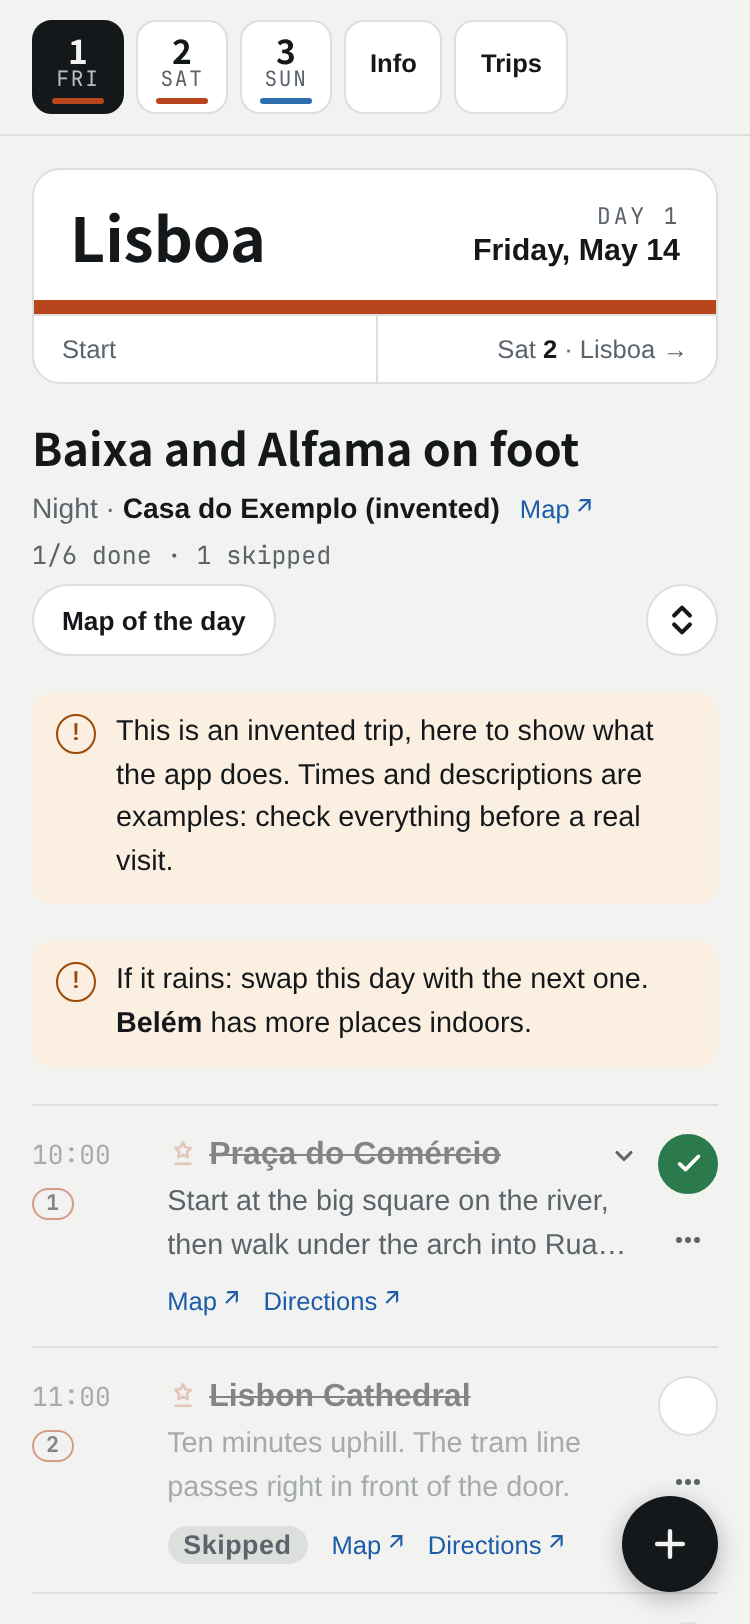
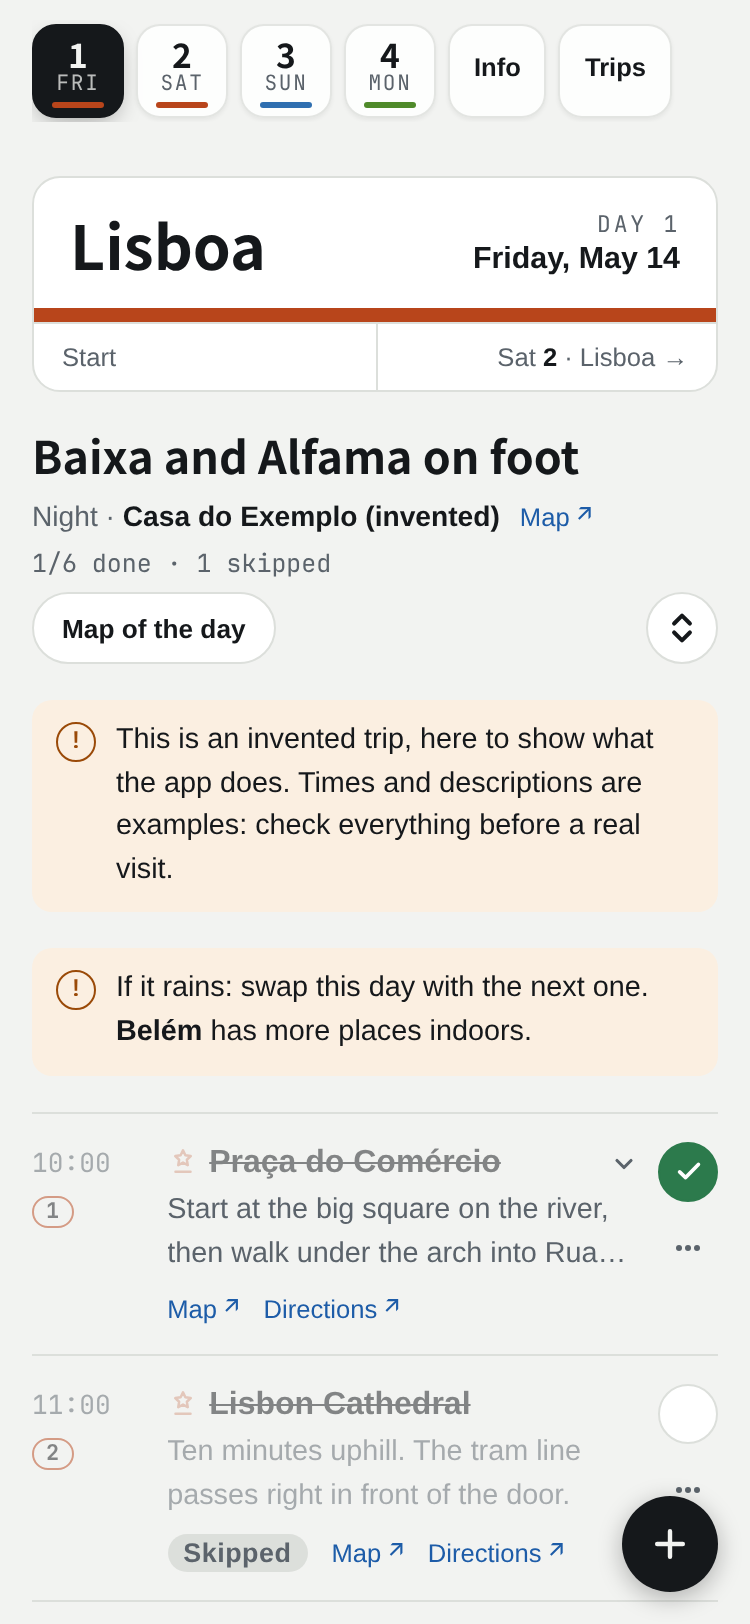
3.1.1: no scroll bars, a switch for the lines, frosted bar, richer example
- No scroll bars anywhere (3.1.0 hid them on touch-only devices only).
- "Lines" next to Map and Sketch hides the lines between the stops and the
  travel icons on them; the choice is kept.
- The bar of days is frosted glass, with an edge once the page scrolls; the
  list of days fades on the side with more to scroll; day buttons polished.
- The example trip adds a day in Porto (train, a new city, every kind of
  place, metro, a flight home, a stay that is only text, a shared pin, a
  separate map for the airport), the bus to Pena, a Google Maps link and a
  number to call.
- Older Safari: solid colours before color-mix(), and a fallback for
  AbortSignal.timeout. Modules checked under JavaScriptCore.

diff --git a/css/app.css b/css/app.css
@@ -33,6 +33,12 @@
 html{scroll-padding-top:env(safe-area-inset-top,0px)}
 body{margin:0;padding:env(safe-area-inset-top,0px) 0 env(safe-area-inset-bottom,0px);background:var(--bg);color:var(--ink);font:400 15px/1.5 var(--f-body);-webkit-text-size-adjust:100%}
 body::before{content:"";position:fixed;inset:0 0 auto;height:env(safe-area-inset-top,0px);z-index:10;background:var(--bg)}
+/* Frosted glass, for the bars that stay on top while the page scrolls under them.
+   Without backdrop-filter, or without color-mix (Safari before 16.2), they keep a solid
+   background. Safari needs the -webkit- prefix before 18. */
+@supports ((backdrop-filter:blur(1px)) or (-webkit-backdrop-filter:blur(1px))){
+  body::before,.strip{background:color-mix(in srgb,var(--bg) 70%,transparent);-webkit-backdrop-filter:saturate(170%) blur(16px);backdrop-filter:saturate(170%) blur(16px)}
+}
 img{max-width:100%}
 [hidden]{display:none!important}
 a{color:var(--link)}
@@ -41,22 +47,26 @@ button{font:inherit}
 .gutter{max-width:640px;margin:0 auto;padding-left:max(16px,env(safe-area-inset-left,0px));padding-right:max(16px,env(safe-area-inset-right,0px))}
 
 /* day strip */
-.strip{position:sticky;top:env(safe-area-inset-top,0px);z-index:5;background:var(--bg);border-bottom:1px solid var(--line)}
+.strip{position:sticky;top:env(safe-area-inset-top,0px);z-index:5;background:var(--bg);border-bottom:1px solid transparent;transition:border-color .2s,box-shadow .2s}
+/* once the page has scrolled, the bar gets an edge and a soft shadow (js: markStrip) */
+.strip.scrolled{border-bottom-color:var(--line);border-bottom-color:color-mix(in srgb,var(--line) 70%,transparent);box-shadow:0 6px 18px -10px rgba(0,0,0,.35)}
 .strip .gutter{padding-block:10px}
-#days{display:flex;gap:6px;overflow-x:auto;scrollbar-width:none;scroll-behavior:smooth}
+#days{display:flex;gap:6px;overflow-x:auto;scrollbar-width:none;scroll-behavior:smooth;padding-block:2px}
+/* the list of days fades out on a side when there is more to scroll that way */
+#days.more-l{-webkit-mask-image:linear-gradient(to right,transparent,#000 28px);mask-image:linear-gradient(to right,transparent,#000 28px)}
+#days.more-r{-webkit-mask-image:linear-gradient(to left,transparent,#000 28px);mask-image:linear-gradient(to left,transparent,#000 28px)}
+#days.more-l.more-r{-webkit-mask-image:linear-gradient(to right,transparent,#000 28px,#000 calc(100% - 28px),transparent);mask-image:linear-gradient(to right,transparent,#000 28px,#000 calc(100% - 28px),transparent)}
 #days::-webkit-scrollbar{display:none}
-/* On phones and tablets no scroll bar is drawn: a finger scrolls without it, and an
-   always visible bar (inside the forms, beside the page) was a distraction. A mouse
-   keeps its bars. */
-@media (hover:none) and (pointer:coarse){
-  *{scrollbar-width:none}
-  ::-webkit-scrollbar{display:none}
-}
-.dchip{flex:0 0 auto;min-width:46px;padding:5px 8px 9px;border:1px solid var(--line);background:var(--surface);border-radius:10px;text-align:center;text-decoration:none;color:var(--ink);display:grid;gap:0;position:relative}
+/* No scroll bars anywhere (page, forms, fields): pages scroll with a finger, a wheel or
+   the keyboard all the same, and an always visible bar was only in the way. */
+html,*{scrollbar-width:none}
+::-webkit-scrollbar{display:none;width:0;height:0}
+.dchip{flex:0 0 auto;min-width:46px;padding:5px 8px 9px;border:1px solid var(--line);border-color:color-mix(in srgb,var(--line) 80%,transparent);background:var(--surface);background:color-mix(in srgb,var(--surface) 85%,transparent);border-radius:12px;text-align:center;text-decoration:none;color:var(--ink);display:grid;gap:0;position:relative;box-shadow:0 1px 2px rgba(0,0,0,.06);transition:background-color .15s,border-color .15s,transform .1s;-webkit-tap-highlight-color:transparent}
+.dchip:active{transform:scale(.96)}
 .dchip::after{content:"";position:absolute;left:9px;right:9px;bottom:4px;height:3px;border-radius:2px;background:var(--c,var(--muted))}
 .dchip .n{font:700 1.05rem/1.1 var(--f-display);font-variant-numeric:tabular-nums}
 .dchip .w{font:500 .66rem/1.2 var(--f-mono);text-transform:uppercase;letter-spacing:.08em;color:var(--muted)}
-.dchip[aria-current="page"]{background:var(--ink);border-color:var(--ink);color:var(--bg)}
+.dchip[aria-current="page"]{background:var(--ink);border-color:var(--ink);color:var(--bg);box-shadow:0 4px 12px -4px rgba(0,0,0,.4)}
 .dchip[aria-current="page"] .w{color:var(--bg);opacity:.75}
 .dchip.today .n::after{content:"";display:inline-block;width:6px;height:6px;border-radius:50%;background:var(--accent);margin-left:3px;vertical-align:super}
 .dchip.info{align-content:center;font:600 .8rem var(--f-body);padding-inline:12px}
@@ -138,7 +148,7 @@ ol.stops{list-style:none;margin:0;padding:0}
 .iconbtn svg{width:18px;height:18px}
 .iconbtn[aria-pressed="true"]{background:var(--ink);color:var(--bg);border-color:var(--ink)}
 /* how a stop is travelled: metro, train, plane, boat */
-.tvchip{flex:0 0 auto;display:inline-grid;place-items:center;width:26px;height:26px;border-radius:7px;background:color-mix(in srgb,var(--c,var(--muted)) 16%,var(--surface));color:var(--c,var(--ink))}
+.tvchip{flex:0 0 auto;display:inline-grid;place-items:center;width:26px;height:26px;border-radius:7px;background:var(--bg);background:color-mix(in srgb,var(--c,var(--muted)) 16%,var(--surface));color:var(--c,var(--ink))}
 .tvchip svg{display:block}
 /* the kind of place, before the stop's title */
 .tychip{display:inline-block;vertical-align:-2px;margin-right:6px;color:var(--c,var(--ink))}
@@ -205,6 +215,10 @@ ol.stops{list-style:none;margin:0;padding:0}
 .livewrap{display:grid;gap:8px;min-width:0}
 .zchips{display:flex;flex-wrap:wrap;gap:6px}
 .zchip{border:1px solid var(--line);background:var(--bg);color:var(--ink);font:600 .76rem var(--f-body);padding:5px 12px;border-radius:999px;cursor:pointer;min-height:32px}
+/* the map's view picker and the switch for the lines between the stops */
+.maptools{display:flex;flex-wrap:wrap;align-items:center;gap:8px;justify-content:space-between}
+.chipbtn{font:600 .84rem var(--f-body);padding:8px 14px;border-radius:999px;border:1px solid var(--line);background:var(--surface);color:var(--muted);cursor:pointer;min-height:36px}
+.chipbtn[aria-pressed="true"]{background:var(--ink);color:var(--bg);border-color:var(--ink)}
 .live{height:min(62vh,380px);border-radius:10px;overflow:hidden;background:var(--bg);position:relative;isolation:isolate}
 .live .canvas{position:absolute;inset:0}
 .live .msg{position:absolute;inset:0;display:grid;place-items:center;text-align:center;padding:16px;color:var(--muted);font-size:.88rem}

diff --git a/js/app.js b/js/app.js
@@ -28,7 +28,7 @@ const S = {
   records: [],            // [{id, trip, importedAt, fileName}]
   rec: null,              // the open one
   state: {done: {}, skipped: {}, plans: {}},
-  ui: {mapOpen: false, mapView: "live", expandAll: false},
+  ui: {mapOpen: false, mapView: "live", expandAll: false, route: true},
   langPref: "auto",       // "auto" follows the trip, or a language chosen on this device
   theme: document.documentElement.dataset.theme || "auto",   // set early by js/theme.js
   openStops: new Map(),   // descriptions opened or closed one by one, until the page is closed
@@ -407,7 +407,22 @@ function renderStrip(r){
     `<a class="dchip info" href="#trips"${r.name === "trips" ? ' aria-current="page"' : ""}>${esc(t("trips"))}</a>`;
   const active = $days.querySelector('[aria-current="page"]');
   if(active) $days.scrollLeft = active.offsetLeft - ($days.clientWidth - active.offsetWidth) / 2;
+  markStrip();
 }
+
+// The bar of days: an edge once the page has scrolled under it, and a fade on each side
+// of the list of days where there is more to scroll (css/app.css, .strip).
+function markStrip(){
+  $strip.classList.toggle("scrolled", window.scrollY > 4);
+  const max = $days.scrollWidth - $days.clientWidth;
+  $days.classList.toggle("more-l", $days.scrollLeft > 2);
+  $days.classList.toggle("more-r", $days.scrollLeft < max - 2);
+}
+let stripFrame = 0;
+const onScroll = () => { if(!stripFrame) stripFrame = requestAnimationFrame(() => { stripFrame = 0; markStrip(); }); };
+window.addEventListener("scroll", onScroll, {passive: true});
+window.addEventListener("resize", onScroll, {passive: true});
+$days.addEventListener("scroll", onScroll, {passive: true});
 
 function errorBox(){
   const e = S.importError;
@@ -662,7 +677,8 @@ function mapPanel(zs, color, view, gone){
   const views = [["live", t("viewLive")], ["schema", t("viewSchema")]];
 
   let o = `<section class="mapbox" style="--c:${color}" aria-label="${esc(t("dayMap"))}">`;
-  o += `<div class="seg" role="group" aria-label="${esc(t("mapType"))}">${views.map(([id, name]) => `<button type="button" data-view="${id}" aria-pressed="${id === view}">${esc(name)}</button>`).join("")}</div>`;
+  o += `<div class="maptools"><div class="seg" role="group" aria-label="${esc(t("mapType"))}">${views.map(([id, name]) => `<button type="button" data-view="${id}" aria-pressed="${id === view}">${esc(name)}</button>`).join("")}</div>` +
+    `<button type="button" class="chipbtn" data-route aria-pressed="${S.ui.route}">${esc(t("routeLines"))}</button></div>`;
   if(!S.online && S.ui.mapView === "live") o += `<p class="off">${esc(t("offlineMap"))}</p>`;
 
   if(view === "live"){
@@ -683,7 +699,7 @@ function mapPanel(zs, color, view, gone){
       return;
     }
     const head = `<div class="zhead"><span class="zname">${esc(zoneTitle(z))}</span>${zoneLink(z)}</div>`;
-    o += `<div class="zone">${head}${zoneSVG(z, zoneTitle(z), gone)}<ol class="mlegend">${z.pts.map(p => `<li><span class="mb">${p.nums.join("·")}</span><a href="${esc(mapsUrl(p.q))}" target="_blank" rel="noopener">${esc(p.name)}</a></li>`).join("")}</ol></div>`;
+    o += `<div class="zone">${head}${zoneSVG(z, zoneTitle(z), gone, S.ui.route)}<ol class="mlegend">${z.pts.map(p => `<li><span class="mb">${p.nums.join("·")}</span><a href="${esc(mapsUrl(p.q))}" target="_blank" rel="noopener">${esc(p.name)}</a></li>`).join("")}</ol></div>`;
   });
   return o + `<p class="foot">${esc(t("footSketch") + " " + t("footNumbers"))}</p></section>`;
 }
@@ -792,7 +808,7 @@ function renderDay(i){
     const dark = isDark();
     // Skipping a stop changes the route: the map is drawn again.
     const skippedNow = list.map((s, k) => isSkipped(k) ? k : -1).filter(k => k >= 0).join(",");
-    if(view === "live") wanted = {key: [S.rec.id, S.rec.importedAt, i, pid || "", googleKey(), lang, dark, skippedNow].join("|"), zones: zs, color: cityColor(d.city), dark, gone};
+    if(view === "live") wanted = {key: [S.rec.id, S.rec.importedAt, i, pid || "", googleKey(), lang, dark, skippedNow, S.ui.route].join("|"), zones: zs, color: cityColor(d.city), dark, gone};
   }
   if(d.notes) html += d.notes.map(r => `<div class="remind"><span class="ic" aria-hidden="true">!</span><div>${rich(r)}</div></div>`).join("");
   if(d.plans){
@@ -814,7 +830,7 @@ function syncLive(wanted){
   if(applyMapSettings()) return;
   if(!live || live.key !== wanted.key){
     if(live) live.handle.destroy();
-    live = {key: wanted.key, handle: createLiveMap({zones: wanted.zones, color: wanted.color, googleKey: googleKey(), dark: wanted.dark, onNotice: k => toast(t(k))})};
+    live = {key: wanted.key, handle: createLiveMap({zones: wanted.zones, color: wanted.color, googleKey: googleKey(), dark: wanted.dark, route: S.ui.route, onNotice: k => toast(t(k))})};
   }
   slot.appendChild(live.handle.el);
   live.handle.refresh();
@@ -937,6 +953,14 @@ $app.addEventListener("click", e => {
     saveUi();
     render();
     refocus("[data-map]");
+    return;
+  }
+  // The lines between the stops on both maps: shown or hidden, remembered.
+  if(e.target.closest("[data-route]")){
+    S.ui.route = !S.ui.route;
+    saveUi();
+    render();
+    refocus("[data-route]");
     return;
   }
   const view = e.target.closest("[data-view]");
@@ -1130,7 +1154,7 @@ async function start(){
     await store.putTrip(rec);
     await versions.put(ready);
   }
-  if(ui && typeof ui === "object") S.ui = {mapOpen: !!ui.mapOpen, mapView: ui.mapView === "schema" ? "schema" : "live", expandAll: !!ui.expandAll};
+  if(ui && typeof ui === "object") S.ui = {mapOpen: !!ui.mapOpen, mapView: ui.mapView === "schema" ? "schema" : "live", expandAll: !!ui.expandAll, route: ui.route !== false};
   if(typeof key === "string") S.deviceKey = key;
   syncThemeColor();
   await openRecord(S.records.find(r => r.id === activeId) || S.records[S.records.length - 1] || null);

diff --git a/js/livemap.js b/js/livemap.js
@@ -72,7 +72,7 @@ function pinNode(pt, color){
 }
 
 // In the dark theme the tiles are darkened by CSS (.live.dark), see css/app.css.
-async function drawLeaflet(canvas, zones, color){
+async function drawLeaflet(canvas, zones, color, route){
   const L = await loadLeaflet();
   const map = L.map(canvas, {zoomControl: true});
   map.attributionControl.setPrefix('<a href="https://leafletjs.com" target="_blank" rel="noopener">Leaflet</a>');
@@ -83,7 +83,7 @@ async function drawLeaflet(canvas, zones, color){
   const legs = [], pins = [], marks = [];
   // A jump between zones (Hakone → Kyoto) is thinner: it is not a walk.
   const style = (leg, isGone) => ({weight: leg.bridge ? 3 : 4, opacity: isGone || leg.bridge ? 0.55 : 0.75, dashArray: isGone ? "5 10" : null});
-  routeOf(zones).forEach(leg => {
+  (route ? routeOf(zones) : []).forEach(leg => {
     legs.push({...leg, line: L.polyline([leg.from.ll, leg.to.ll], {color, interactive: false, ...style(leg, false)}).addTo(map)});
     if(leg.travel){
       const el = travelNode(leg, color);
@@ -114,7 +114,7 @@ async function drawLeaflet(canvas, zones, color){
   return {fit, mark, refresh: () => map.invalidateSize(), destroy: () => map.remove()};
 }
 
-async function drawGoogle(canvas, zones, color, key, dark){
+async function drawGoogle(canvas, zones, color, key, dark, route){
   const gm = await loadGoogle(key);
   const {Map, Polyline, InfoWindow, OverlayView} = await gm.importLibrary("maps");
   const {LatLng, LatLngBounds, ColorScheme} = await gm.importLibrary("core");
@@ -151,7 +151,7 @@ async function drawGoogle(canvas, zones, color, key, dark){
   // Google has no dashed lines: a dashed leg is an invisible line that repeats a short stroke.
   const solid = leg => ({strokeOpacity: leg.bridge ? 0.55 : 0.75, strokeWeight: leg.bridge ? 3 : 4, icons: []});
   const dashed = leg => ({strokeOpacity: 0, strokeWeight: leg.bridge ? 3 : 4, icons: [{icon: {path: "M 0,-1 0,1", strokeOpacity: 0.55, strokeWeight: leg.bridge ? 3 : 4, scale: 1.5}, offset: "0", repeat: "13px"}]});
-  routeOf(zones).forEach(leg => {
+  (route ? routeOf(zones) : []).forEach(leg => {
     const line = new Polyline({map, path: [leg.from, leg.to].map(p => ({lat: p.ll[0], lng: p.ll[1]})), strokeColor: color, clickable: false, ...solid(leg)});
     drawn.push(line);
     legs.push({...leg, line});
@@ -204,9 +204,10 @@ async function drawGoogle(canvas, zones, color, key, dark){
 
 /**
  * Creates the map element. Append `el` to the page right away; drawing starts on its own.
- * @param {{zones: object[], color: string, googleKey: string, dark: boolean, onNotice: (key: string) => void}} o
+ * @param {{zones: object[], color: string, googleKey: string, dark: boolean, route?: boolean, onNotice: (key: string) => void}} o
+ *   route: false hides the lines between the stops (and the travel icons on them).
  */
-export function createLiveMap({zones, color, googleKey, dark, onNotice}){
+export function createLiveMap({zones, color, googleKey, dark, route = true, onNotice}){
   const el = document.createElement("div");
   el.className = "live" + (dark ? " dark" : "");
   let canvas = null, impl = null, dead = false;
@@ -225,7 +226,7 @@ export function createLiveMap({zones, color, googleKey, dark, onNotice}){
     try{
       // The canvas must be on the page (with a size) before a map is drawn into it.
       el.appendChild(fresh);
-      const made = useGoogle ? await drawGoogle(fresh, zones, color, googleKey, dark) : await drawLeaflet(fresh, zones, color);
+      const made = useGoogle ? await drawGoogle(fresh, zones, color, googleKey, dark, route) : await drawLeaflet(fresh, zones, color, route);
       if(dead){ made.destroy(); return; }
       const msg = el.querySelector(".msg");
       if(msg) msg.remove();

diff --git a/js/geo.js b/js/geo.js
@@ -105,8 +105,9 @@ export const pinGone = (pt, gone) => pt.items.every(it => gone(it.idx));
 export const legGone = (leg, gone) => gone(leg.idx);
 
 // The offline map: an SVG sketch to scale, with numbered badges pushed apart so they never overlap.
-// `gone(idx)` says whether the stop at that position in the list is done or skipped.
-export function zoneSVG(z, label, gone = () => false){
+// `gone(idx)` says whether the stop at that position in the list is done or skipped;
+// `route` false leaves out the lines between the stops and the travel icons on them.
+export function zoneSVG(z, label, gone = () => false, route = true){
   const pts = z.pts, lat0 = pts.reduce((a, p) => a + p.ll[0], 0) / pts.length;
   const xy = pts.map(p => kmXY(p.ll, lat0));
   const xs = xy.map(p => p[0]), ys = xy.map(p => p[1]);
@@ -130,7 +131,7 @@ export function zoneSVG(z, label, gone = () => false){
     B.forEach(b => { b[0] = Math.min(W - 16, Math.max(16, b[0])); b[1] = Math.min(H - 13, Math.max(13, b[1])); });
   }
   let o = `<svg class="mapsvg" viewBox="0 0 ${W} ${H + FOOT}" role="img" aria-label="${esc(label)}">`;
-  const legs = legsOf(z);
+  const legs = route ? legsOf(z) : [];
   legs.forEach(leg => {
     const a = P[pts.indexOf(leg.from)], b = P[pts.indexOf(leg.to)];
     o += `<path class="route${legGone(leg, gone) ? " gone" : ""}" d="M${f1(a[0])} ${f1(a[1])}L${f1(b[0])} ${f1(b[1])}"/>`;

diff --git a/js/geocode.js b/js/geocode.js
@@ -103,6 +103,14 @@ export async function geocode(address, {googleKey = "", lang = "en", near = null
   return null;
 }
 
+// A signal that aborts after `ms`. AbortSignal.timeout is missing before Safari 16.
+function timeout(ms){
+  if(AbortSignal.timeout) return AbortSignal.timeout(ms);
+  const c = new AbortController();
+  setTimeout(() => c.abort(), ms);
+  return c.signal;
+}
+
 /**
  * A Google Maps short link, read by the link resolver (worker/, when this copy of the
  * app has one): {title, address, lat, lng, type}, each only when known. Null without a
@@ -112,7 +120,7 @@ export async function geocode(address, {googleKey = "", lang = "en", near = null
 export async function resolveLink(link){
   if(!RESOLVER_URL || (typeof navigator !== "undefined" && navigator.onLine === false)) return null;
   try{
-    const res = await fetch(RESOLVER_URL + "?url=" + encodeURIComponent(link), {signal: AbortSignal.timeout(8000), credentials: "omit"});
+    const res = await fetch(RESOLVER_URL + "?url=" + encodeURIComponent(link), {signal: timeout(8000), credentials: "omit"});
     if(!res.ok) return null;
     const r = await res.json();
     const text = v => typeof v === "string" && v.trim() ? v.trim().slice(0, 300) : undefined;

diff --git a/js/i18n.js b/js/i18n.js
@@ -50,7 +50,7 @@ export const STRINGS = {
     fAddressPh: "Paste or write here",
     fAddressHelp: "What Google Maps shares, a full address, or coordinates. Name and position are filled in for you.",
     paste: "Paste",
-    fTitle: "Name", fDay: "Day", fTime: "Time", fPlan: "Plan",
+    fTitle: "Name", fDay: "Day", fTime: "Time", fPlan: "Plan", routeLines: "Lines",
     timeWords: "Write it in words", timeClock: "Use the clock", timeWordsPh: "Evening",
     fTravel: "How you get there", travel_none: "Other",
     fType: "What it is", type_none: "Other",
@@ -183,7 +183,7 @@ export const STRINGS = {
     fAddressPh: "Incolla o scrivi qui",
     fAddressHelp: "Quello che condivide Google Maps, un indirizzo completo o delle coordinate. Nome e posizione si compilano da soli.",
     paste: "Incolla",
-    fTitle: "Nome", fDay: "Giorno", fTime: "Orario", fPlan: "Piano",
+    fTitle: "Nome", fDay: "Giorno", fTime: "Orario", fPlan: "Piano", routeLines: "Linee",
     timeWords: "Scrivilo a parole", timeClock: "Usa l'orologio", timeWordsPh: "Sera",
     fTravel: "Come ci si arriva", travel_none: "Altro",
     fType: "Cos'è", type_none: "Altro",

diff --git a/CHANGELOG.md b/CHANGELOG.md
@@ -4,6 +4,22 @@ Versions follow [Semantic Versioning](https://semver.org/). The trip file format
 its own version: `travel-in-my-pocket/2` since 3.0. Files in `travel-in-my-pocket/1`
 (1.0 to 2.4) still load: the app converts them.
 
+## 3.1.1
+
+- No scroll bars at all: 3.1.0 hid them only on devices that call themselves touch
+  only, and some phones do not.
+- The bar of days is frosted glass: the page shows blurred under it while scrolling,
+  and an edge appears once it has scrolled. The list of days fades out on the side
+  where there are more days to scroll to. Day buttons are a little more polished.
+- Older Safari (iOS 15.4 to 16.1): solid colours where color-mix() is missing, and the
+  link resolver works without AbortSignal.timeout.
+- **Lines**, next to Map and Sketch: hides the lines between the stops (and the travel
+  icons on them), on both maps. The choice is kept.
+- The example trip shows what the app does now: a fourth day in Porto, reached by train,
+  with every kind of place, the metro and the flight home, a night that is not a place
+  to sleep, two stops sharing a pin, a map of its own for the airport; the bus up to
+  Pena; a Google Maps link on a stop; the emergency number to call with a tap.
+
 ## 3.1.0
 
 Changing a trip with an AI assistant costs a few lines, not the whole file again.

diff --git a/README.md b/README.md
@@ -39,7 +39,8 @@ Retake them with <code>npm run screenshots</code>.</sub></p>
 - Each stop at a glance: time, pin number and how you get there on the left, a label
   like "Booking needed" above the title, Map and Directions always one tap away.
 - A map for every day: interactive when you are online (Google Maps or OpenStreetMap),
-  a sketch to scale when you are not. What is behind you is drawn dashed.
+  a sketch to scale when you are not. What is behind you is drawn dashed, and the lines
+  between the stops can be hidden.
 - One tap to open any stop in Google Maps, with directions.
 - An Info page for hotels, phone numbers, money, useful phrases.
 - Works on iPhone and Android. Installs on the Home Screen, no app store.
